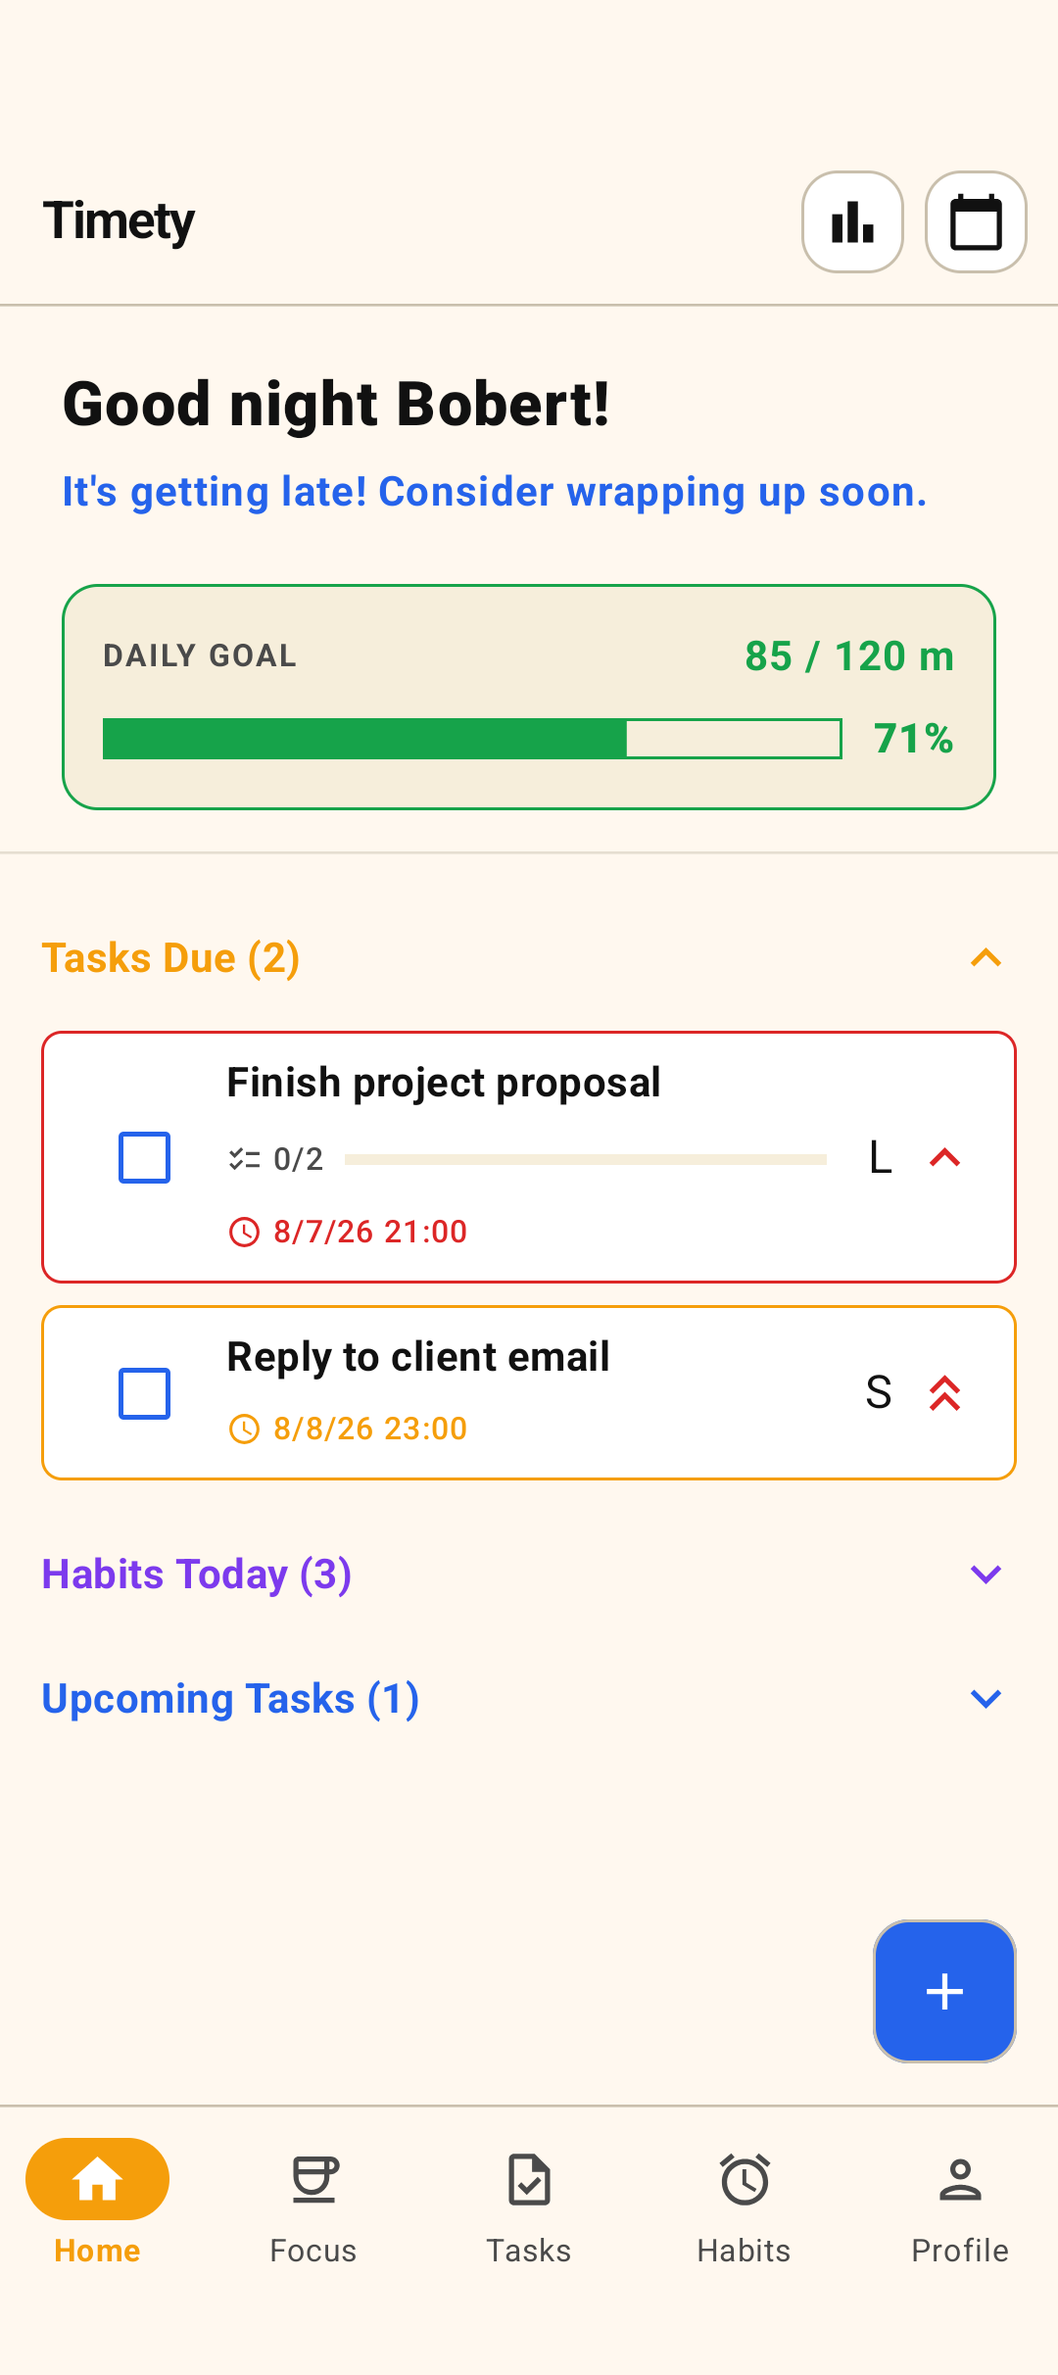
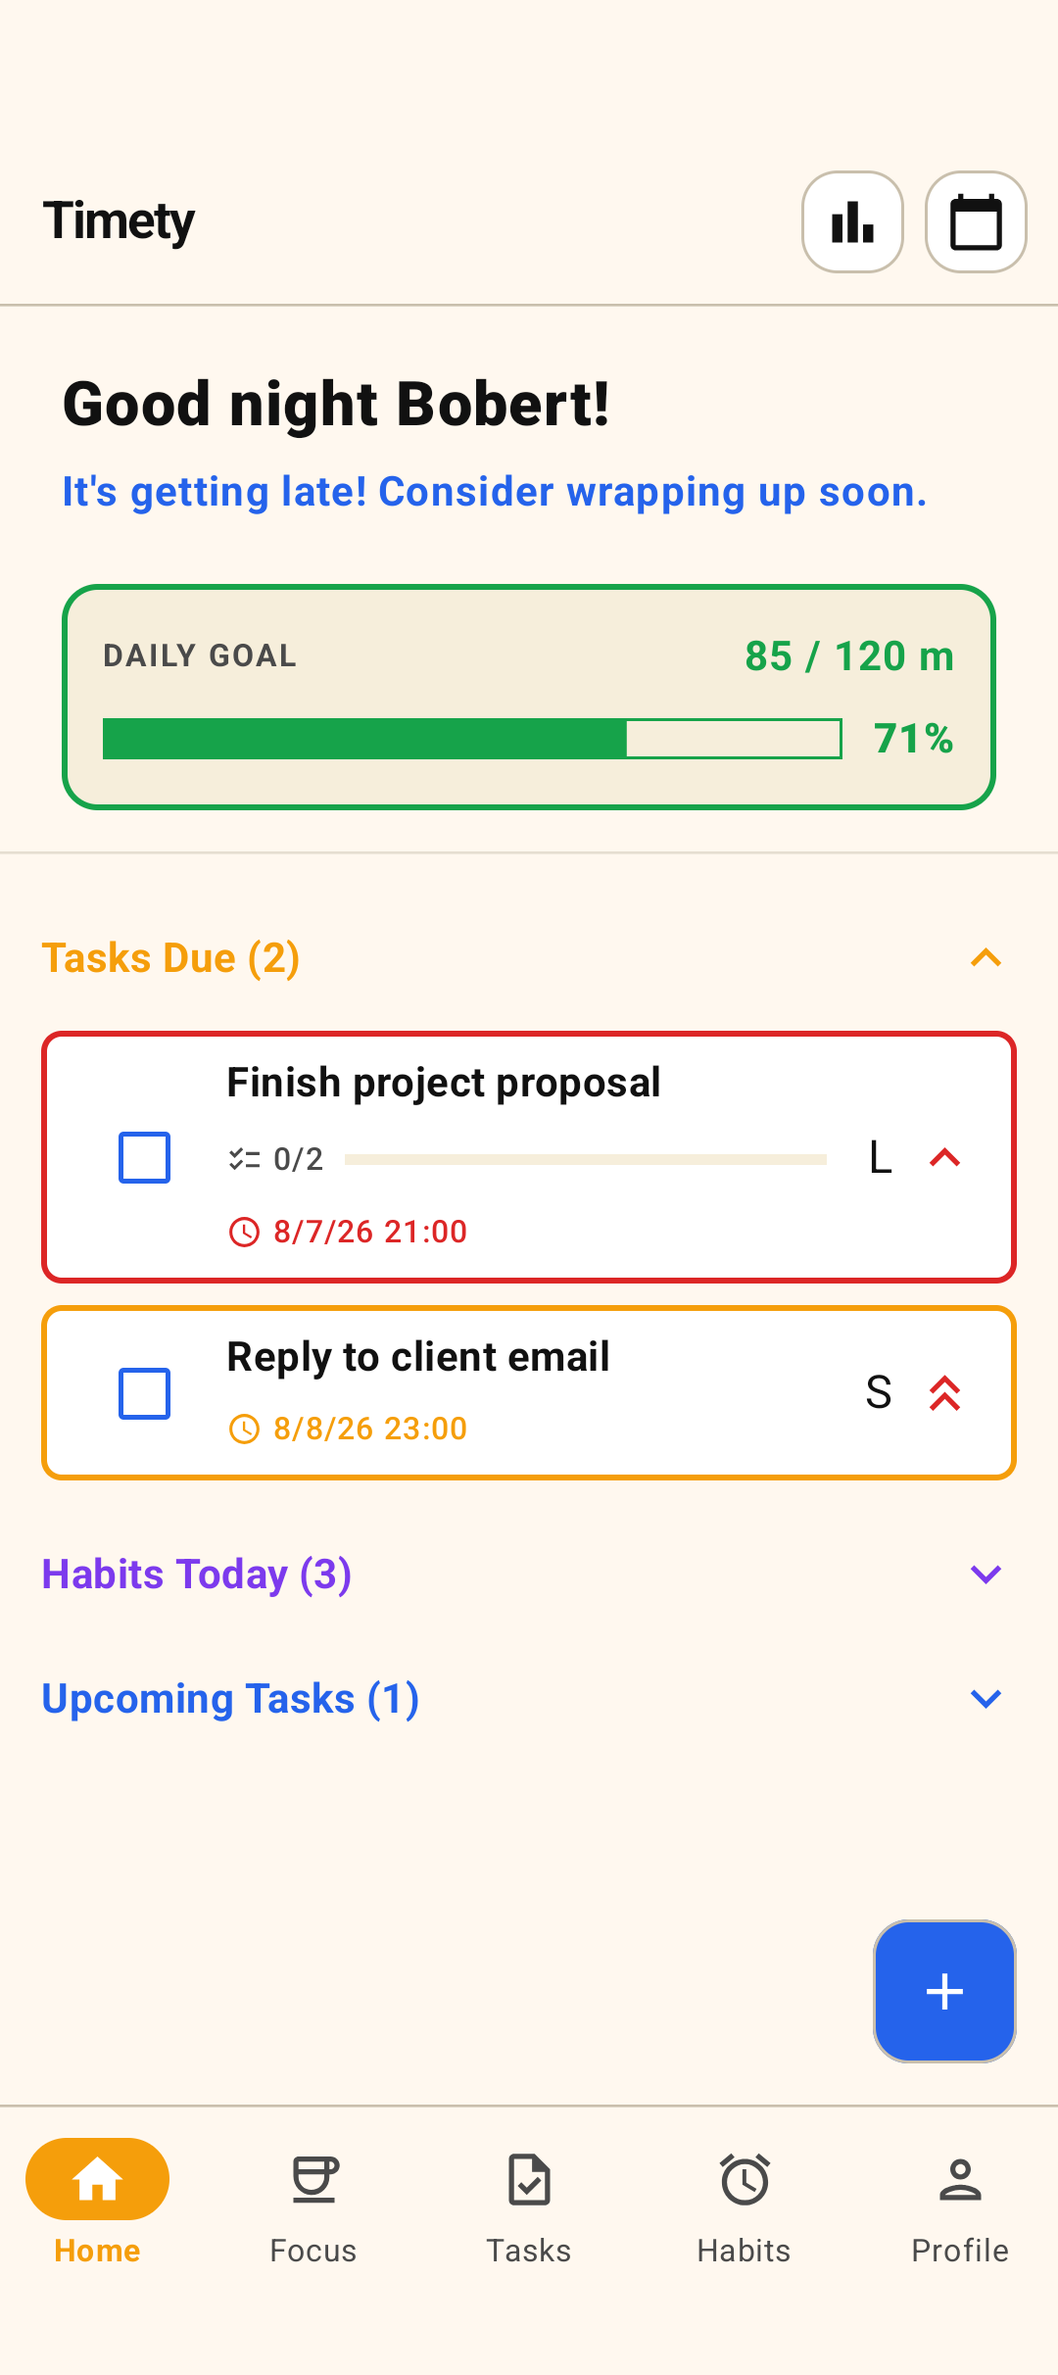
Better border

diff --git a/app/src/main/java/io/github/benji377/timety/ui/screens/CalendarScreen.kt b/app/src/main/java/io/github/benji377/timety/ui/screens/CalendarScreen.kt
@@ -198,7 +198,7 @@ fun CalendarScreen(
                     // squeezed the day cells down to a size that was awkward to tap.
                     .padding(horizontal = AppTheme.spaceSmall, vertical = AppTheme.spaceSmall)
                     .background(MaterialTheme.colorScheme.background, AppTheme.brNeo)
-                    .border(AppTheme.borderHairline, MaterialTheme.colorScheme.outline, AppTheme.brNeo)
+                    .border(AppTheme.borderCard, MaterialTheme.colorScheme.outline, AppTheme.brNeo)
                     .padding(AppTheme.spaceSmall)
             ) {
                 Column {
@@ -522,15 +522,16 @@ private fun CalendarGrid(
                     }
                 }
 
-                // Bordered chip instead of plain text so the weekly summary reads as its own
-                // component next to the day cells.
+                // Filled chip, deliberately borderless: these stack flush in a column of six, one
+                // per week row, and an outline on each turned the column into a visible ladder
+                // running down the side of the grid. The fill alone is enough to separate the
+                // summary from the day cells beside it.
                 Box(
                     modifier = Modifier
                         .weight(1.5f)
                         .height(53.dp)
                         .padding(horizontal = AppTheme.spaceXSmall)
-                        .background(MaterialTheme.colorScheme.surface, AppTheme.brMedium)
-                        .border(AppTheme.borderHairline, MaterialTheme.colorScheme.outline, AppTheme.brMedium),
+                        .background(MaterialTheme.colorScheme.surface, AppTheme.brMedium),
                     contentAlignment = Alignment.Center
                 ) {
                     Text(
@@ -617,7 +618,6 @@ private fun HabitsAccordion(
                     // sheet forbids soft borders) - falling back to the neutral outline reads as
                     // "no longer the active accent" without inventing a new faded tone.
                     borderColor = if (isCompleted) MaterialTheme.colorScheme.outline else HabitColor,
-                    borderWidth = AppTheme.borderHairline,
                 ) {
                     Row(
                         modifier = Modifier
@@ -720,7 +720,6 @@ private fun DayTaskRow(
             .clickable { onClick() },
         containerColor = MaterialTheme.colorScheme.background,
         borderColor = if (isCompleted) SuccessColor else TaskColor,
-        borderWidth = AppTheme.borderHairline,
     ) {
         Row(
             modifier = Modifier
@@ -817,7 +816,6 @@ private fun FocusSessionsAccordion(
                     // above, using the color this screen already gives focus activity. The previous
                     // `outlineVariant` was the soft tan the general fixes ban outright.
                     borderColor = SuccessColor,
-                    borderWidth = AppTheme.borderHairline,
                 ) {
                     Row(
                         modifier = Modifier

diff --git a/app/src/main/java/io/github/benji377/timety/ui/components/common/NeoCard.kt b/app/src/main/java/io/github/benji377/timety/ui/components/common/NeoCard.kt
@@ -15,12 +15,14 @@ import io.github.benji377.timety.ui.theme.AppTheme
 /**
  * Bordered [Card] used for the app's prominent "feature card" tier: standalone summary/config
  * cards such as the home screen's daily-goal card or a stat card, distinguished from the page by
- * their [containerColor] fill, hairline border, and the larger [AppTheme.brNeo] corner radius.
- * For the denser list-row tier (task/habit/recurring-task rows), use [NeoListTile] instead.
+ * their [containerColor] fill, an [AppTheme.borderCard] border, and the larger [AppTheme.brNeo]
+ * corner radius. For the denser list-row tier (task/habit/recurring-task rows), use [NeoListTile].
  *
- * The card is flat: no Material elevation and no offset shadow. Depth cues come from the fill and
- * border alone, so a card whose [containerColor] matches its background will not separate from it
- * - give such a card a distinct fill rather than expecting a shadow to do the work.
+ * The card is flat: no Material elevation and no offset shadow. With nothing lifting it off the
+ * page, the border is what gives the card edges, which is why it takes the heavier
+ * [AppTheme.borderCard] weight rather than the hairline used on smaller controls. A card whose
+ * [containerColor] matches its background leans entirely on that border, so give it a distinct
+ * fill too rather than expecting the outline to carry the separation alone.
  *
  * When [onClick] is non-null the card renders with Material3's clickable `Card(onClick = ...)`
  * overload, whose ripple supplies the tap feedback; otherwise it is a plain, non-interactive card.
@@ -30,7 +32,7 @@ fun NeoCard(
     modifier: Modifier = Modifier,
     shape: Shape = AppTheme.brNeo,
     borderColor: Color = MaterialTheme.colorScheme.outline,
-    borderWidth: Dp = AppTheme.borderHairline,
+    borderWidth: Dp = AppTheme.borderCard,
     containerColor: Color = MaterialTheme.colorScheme.surface,
     onClick: (() -> Unit)? = null,
     content: @Composable ColumnScope.() -> Unit,
@@ -69,7 +71,7 @@ fun NeoListTile(
     modifier: Modifier = Modifier,
     shape: Shape = AppTheme.brMedium,
     borderColor: Color = MaterialTheme.colorScheme.outline,
-    borderWidth: Dp = AppTheme.borderHairline,
+    borderWidth: Dp = AppTheme.borderCard,
     containerColor: Color = MaterialTheme.colorScheme.surface,
     onClick: (() -> Unit)? = null,
     content: @Composable ColumnScope.() -> Unit,

diff --git a/app/src/main/java/io/github/benji377/timety/ui/theme/AppTheme.kt b/app/src/main/java/io/github/benji377/timety/ui/theme/AppTheme.kt
@@ -78,11 +78,19 @@ object AppTheme {
     // two rounded shapes read as nested rather than as one shape with a stray edge.
     val segmentedSelectorInset = 2.dp
 
-    // Border / stroke width (dp). The flat design uses one hairline weight for every border,
-    // divider, and frame in the app - there is no weight scale, because depth and hierarchy come
-    // from fill color and spacing rather than from stroke thickness. Paired with the muted
-    // `outline` color in Theme.kt, a 1dp stroke reads as a separator without drawing attention.
+    // Border / stroke widths (dp), a two-step scale. The design is flat - no shadows, no
+    // elevation - so a container's border is the only thing left to give it edges, and one weight
+    // for everything left cards looking like unframed rectangles. Borrowing neobrutalism's idea
+    // that a container's outline is structure rather than decoration, card-tier elements get a
+    // deliberately visible [borderCard] stroke while everything small and repeated stays at
+    // [borderHairline].
+    //
+    // borderHairline: dividers, text-field outlines, chips, icon buttons, badge circles, heatmap
+    // cells - anything that appears many times on one screen, where 2dp would read as clutter.
+    // borderCard: cards, list tiles, dialogs, and the tracks of segmented controls - the outer
+    // frame of a thing that holds other things.
     val borderHairline = 1.dp
+    val borderCard = 2.dp
 
     // Icon-button container footprint (dp): NeoIconButton's square touch target.
     val neoIconButtonSize = 40.dp

diff --git a/app/src/main/java/io/github/benji377/timety/ui/components/common/NeoSegmentedSelector.kt b/app/src/main/java/io/github/benji377/timety/ui/components/common/NeoSegmentedSelector.kt
@@ -25,9 +25,10 @@ import io.github.benji377.timety.ui.theme.AppTheme
  * (e.g. habit frequency: Daily / Flexible / Specific). This is the text-label sibling of Task
  * Detail's `AccordionSelector`: values like frequency don't have a natural per-option icon to
  * collapse to when unselected, so every segment keeps its label at a fixed equal width instead of
- * expanding on select - but the visual language is identical: a hairline outer border on the whole
- * track, and the selected segment gets its own solid fill + border rather than a flat tint with
- * only a checkmark. Full contrast is kept in both edit and view mode; only tap-gating and the
+ * expanding on select - but the visual language is identical: an [AppTheme.borderCard] border
+ * framing the whole track, and the selected segment gets its own solid fill plus a hairline border
+ * (lighter, so the nested shape doesn't compete with the frame) rather than a flat tint with only
+ * a checkmark. Full contrast is kept in both edit and view mode; only tap-gating and the
  * track's background respond to [isEditing].
  */
 @Composable
@@ -56,7 +57,7 @@ fun <T> NeoSegmentedSelector(
                     MaterialTheme.colorScheme.surfaceVariant
                 }
             )
-            .border(AppTheme.borderHairline, borderColor, AppTheme.brPill)
+            .border(AppTheme.borderCard, borderColor, AppTheme.brPill)
     ) {
         values.forEachIndexed { index, value ->
             val isSelected = value == selectedValue

diff --git a/app/src/main/java/io/github/benji377/timety/ui/components/common/NeoTabRow.kt b/app/src/main/java/io/github/benji377/timety/ui/components/common/NeoTabRow.kt
@@ -17,10 +17,10 @@ import androidx.compose.ui.text.style.TextAlign
 import io.github.benji377.timety.ui.theme.AppTheme
 
 /**
- * Flat segmented tab selector - the app's replacement for Material's `TabRow`. Instead of an
- * animated indicator sliding under a soft-shadowed pill, the selected segment is simply filled
- * solid with [activeColor] and gets its own hairline inner border, so it isn't the only unbordered
- * element in the group.
+ * Flat segmented tab selector - the app's replacement for Material's `TabRow`. The whole track is
+ * framed with an [AppTheme.borderCard] border; instead of an animated indicator sliding under a
+ * soft-shadowed pill, the selected segment is simply filled solid with [activeColor] and gets its
+ * own hairline inner border, so it isn't the only unbordered element in the group.
  *
  * @param tabs labels shown left to right.
  * @param selectedIndex index into [tabs] of the currently active segment.
@@ -42,7 +42,7 @@ fun NeoTabRow(
             // Opaque fill so the unselected segments read as part of one control rather than as
             // gaps showing the page through.
             .background(MaterialTheme.colorScheme.surface)
-            .border(AppTheme.borderHairline, MaterialTheme.colorScheme.outline, AppTheme.brNeo)
+            .border(AppTheme.borderCard, MaterialTheme.colorScheme.outline, AppTheme.brNeo)
     ) {
         tabs.forEachIndexed { index, title ->
             val isSelected = index == selectedIndex

diff --git a/app/src/main/java/io/github/benji377/timety/ui/components/common/DetailPickers.kt b/app/src/main/java/io/github/benji377/timety/ui/components/common/DetailPickers.kt
@@ -8,6 +8,7 @@ import androidx.compose.foundation.layout.Arrangement
 import androidx.compose.foundation.layout.Box
 import androidx.compose.foundation.layout.fillMaxWidth
 import androidx.compose.foundation.layout.height
+import androidx.compose.foundation.layout.padding
 import androidx.compose.foundation.layout.size
 import androidx.compose.foundation.lazy.grid.GridCells
 import androidx.compose.foundation.lazy.grid.LazyVerticalGrid
@@ -53,7 +54,17 @@ fun PickerField(
             readOnly = true,
             enabled = enabled,
             label = { Text(label) },
-            leadingIcon = { Box(contentAlignment = Alignment.Center) { content() } },
+            // Trailing gap on the leading slot: [content] here is a 40dp swatch or icon circle,
+            // far wider than the 24dp glyph M3 sizes its own leading-icon spacing for, so without
+            // this the label sits flush against the swatch's edge. Kept at spaceSmall rather than
+            // anything wider because this padding also eats into the label's available width, and
+            // these fields are half-width - at spaceMedium "Select an Icon" wraps to two lines.
+            leadingIcon = {
+                Box(
+                    modifier = Modifier.padding(end = AppTheme.spaceSmall),
+                    contentAlignment = Alignment.Center,
+                ) { content() }
+            },
             modifier = Modifier.fillMaxWidth(),
         )
         Box(

diff --git a/app/src/main/java/io/github/benji377/timety/ui/components/focus/InteractiveGauge.kt b/app/src/main/java/io/github/benji377/timety/ui/components/focus/InteractiveGauge.kt
@@ -89,9 +89,10 @@ fun InteractiveGauge(
 
     val isDark = LocalIsDarkTheme.current
     val gaugeColor = color ?: MaterialTheme.colorScheme.primary
-    // One outline around the whole dial, exactly like every other bordered element in the app.
-    // The dial used to carry two competing rings - a thick colored band and a neutral gray donut -
-    // which read as a heavy frame rather than as a progress indicator.
+    // One outline around the whole dial, at the same card weight as every other container in the
+    // app - the dial is a card that happens to be round. It used to carry two competing rings, a
+    // thick colored band and a neutral gray donut, which read as a heavy frame rather than as a
+    // progress indicator.
     val frameColor = MaterialTheme.colorScheme.outline
     // The un-progressed part of the ring, in the app's paper-alt tone rather than a gray that
     // appears nowhere else in the palette.
@@ -135,7 +136,7 @@ fun InteractiveGauge(
             val center = Offset(size.width / 2f, size.height / 2f)
             val radius = minOf(size.width, size.height) / 2f
             val strokeWidth = AppTheme.gaugeStrokeWidth.toPx()
-            val frameWidth = AppTheme.borderHairline.toPx()
+            val frameWidth = AppTheme.borderCard.toPx()
 
             val faceFillColor = if (isDark) GaugeBgDark else GaugeWhite
 

diff --git a/app/src/main/java/io/github/benji377/timety/ui/screens/task/TaskDetailScreen.kt b/app/src/main/java/io/github/benji377/timety/ui/screens/task/TaskDetailScreen.kt
@@ -737,9 +737,9 @@ private fun SectionHeader(title: String, icon: ImageVector) {
 
 /**
  * Segmented selector where the selected segment expands to show its label; the rest stay
- * icon-only. The outer track's hairline border, and the selected segment's own solid fill +
- * border, stay at full contrast in both edit and view mode - read-only is not a reason to soften a
- * border; only the track's background and tap-gating change with [isEditing].
+ * icon-only. The outer track's [AppTheme.borderCard] frame, and the selected segment's own solid
+ * fill plus hairline border, stay at full contrast in both edit and view mode - read-only is not a
+ * reason to soften a border; only the track's background and tap-gating change with [isEditing].
  */
 @Composable
 private fun <T> AccordionSelector(
@@ -767,7 +767,7 @@ private fun <T> AccordionSelector(
                     MaterialTheme.colorScheme.surfaceVariant
                 }
             )
-            .border(AppTheme.borderHairline, borderColor, AppTheme.brPill)
+            .border(AppTheme.borderCard, borderColor, AppTheme.brPill)
     ) {
         values.forEachIndexed { index, value ->
             val isSelected = value == selectedValue

diff --git a/app/src/main/java/io/github/benji377/timety/ui/components/common/NeoDialog.kt b/app/src/main/java/io/github/benji377/timety/ui/components/common/NeoDialog.kt
@@ -24,7 +24,7 @@ import androidx.compose.ui.unit.dp
 import io.github.benji377.timety.ui.theme.AppTheme
 
 /**
- * Flat, hairline-bordered modal surface: the app's replacement for Material3's
+ * Flat modal surface with an [AppTheme.borderCard] outline: the app's replacement for Material3's
  * [androidx.compose.material3.AlertDialog], whose default shape/elevation don't have a border
  * param to override. The dialog is separated from the scrim behind it by its own surface fill, so
  * it needs no elevation of its own.
@@ -40,7 +40,7 @@ fun NeoDialog(
         Surface(
             shape = AppTheme.brNeo,
             color = MaterialTheme.colorScheme.surface,
-            border = BorderStroke(AppTheme.borderHairline, MaterialTheme.colorScheme.outline),
+            border = BorderStroke(AppTheme.borderCard, MaterialTheme.colorScheme.outline),
             tonalElevation = 0.dp,
         ) {
             Column(modifier = Modifier.padding(AppTheme.spaceXLarge), content = content)

diff --git a/app/src/main/java/io/github/benji377/timety/ui/components/common/NeoIconButton.kt b/app/src/main/java/io/github/benji377/timety/ui/components/common/NeoIconButton.kt
@@ -22,9 +22,9 @@ import io.github.benji377.timety.ui.theme.AppTheme
  * settings gear, share icon, ...). Built on [OutlinedIconButton] so the border and content
  * clipping come from the same M3 machinery.
  *
- * Its container weight comes entirely from the [AppTheme.borderHairline] outline and the fill:
- * these are 40dp targets that appear several to a row in top bars, so anything heavier would make
- * the header outweigh the content underneath it.
+ * Its container weight comes entirely from the [AppTheme.borderHairline] outline and the fill -
+ * not the heavier [AppTheme.borderCard] used on cards: these are 40dp targets that appear several
+ * to a row in top bars, so a card-weight border would make the header outweigh the content.
  *
  * @param size the button's fixed square footprint.
  */

diff --git a/app/src/main/java/io/github/benji377/timety/ui/components/common/DetailFormColors.kt b/app/src/main/java/io/github/benji377/timety/ui/components/common/DetailFormColors.kt
@@ -20,6 +20,7 @@ import androidx.compose.ui.graphics.Color
  *   screen stays readable, muted label/icons (onSurfaceVariant), and a recessed surfaceVariant
  *   container instead of the white one an editable field gets. The border stays solid rather than
  *   fading, so the inactive state is carried entirely by the fill, not by a washed-out outline.
+ *   Fields keep the hairline weight in both states - only containers take [AppTheme.borderCard].
  * - Edit mode ([isEditing] = true): for fields that stay `enabled = false` while editing because
  *   they open a picker on tap (due dates, reminder times) — styled to look like a normal active
  *   field: surface container, outline border, full-contrast text.

diff --git a/app/src/main/java/io/github/benji377/timety/ui/screens/SettingsScreen.kt b/app/src/main/java/io/github/benji377/timety/ui/screens/SettingsScreen.kt
@@ -805,7 +805,7 @@ fun SettingsScreen(
                     colors = CardDefaults.cardColors(containerColor = Color.Transparent),
                     elevation = AppTheme.flatCardElevation,
                     shape = AppTheme.brNeo,
-                    border = BorderStroke(AppTheme.borderHairline, MaterialTheme.colorScheme.outline),
+                    border = BorderStroke(AppTheme.borderCard, MaterialTheme.colorScheme.outline),
                 ) {
                     Column(
                         horizontalAlignment = Alignment.CenterHorizontally,
